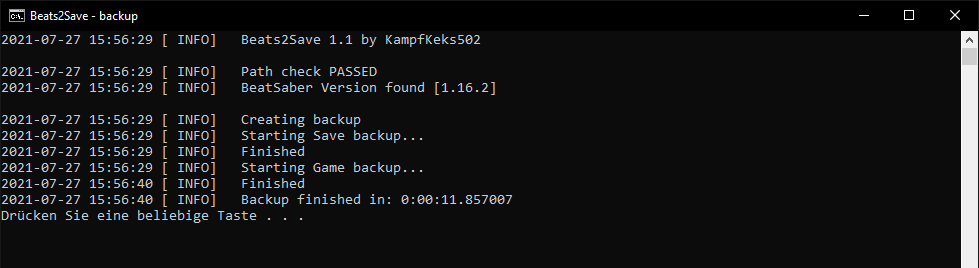
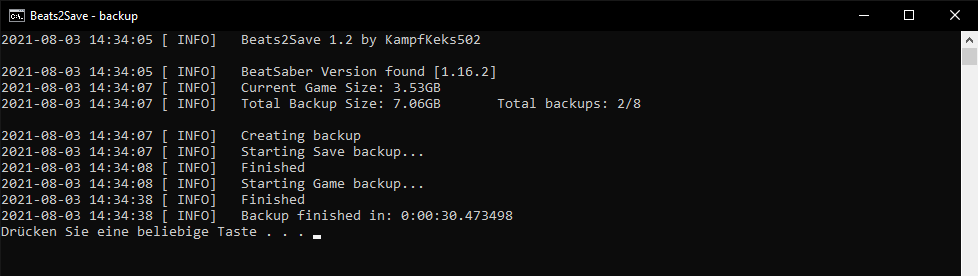
show dir size

diff --git a/Beats2Save.py b/Beats2Save.py
@@ -15,11 +15,11 @@ parser = argparse.ArgumentParser(description="Create or Restore BeatSaber backup
 group_input = parser.add_mutually_exclusive_group()
 group_input.add_argument("-r", "--restore", action="store_true", required=False, help="Restore from backup")
 group_input.add_argument("-c", "--create", action="store_true", required=False, help="Create backup")
-group_input.add_argument("-v", "--version", action="store_true", required=False, help="Show current BeatSaber version")
+group_input.add_argument("-i", "--info", action="store_true", required=False, help="Show BS Version and Game/Backup dir size")
 
-parser.add_argument("-s", "--save_dir", type=str, metavar="", required=False, help="BeatSaber save directory [e.g " + "C:/Users/Kampfkeks/AppData/LocalLow/Hyperbolic Magnetism" + "\"]")
+parser.add_argument("-s", "--save_dir", type=str, metavar="", required=True, help="BeatSaber save directory [e.g " + "C:/Users/Kampfkeks/AppData/LocalLow/Hyperbolic Magnetism" + "\"]")
 parser.add_argument("-g", "--game_dir", type=str, metavar="", required=True, help="BeatSaber/Steam game directory [e.g \"G:/Steam/steamapps/common\"]")
-parser.add_argument("-b", "--backup_dir", type=str, metavar="", required=False, help="Backup directory [e.g \"G:/Backup/Beatsaber\"]")
+parser.add_argument("-b", "--backup_dir", type=str, metavar="", required=True, help="Backup directory [e.g \"G:/Backup/Beatsaber\"]")
 
 parser.add_argument("-n", "--max_backups", type=int, metavar="", required=False, default=0, help="Max number of backups to store [0 = infinite]")
 parser.add_argument("-d", "--debug", action="store_true", required=False, help="enable debug mode")
@@ -68,7 +68,7 @@ def restore(save_dir, game_dir, backup_dir, version):
     i = 1
     logging.info("Please select your desired backup and hit ENTER [e.g. 1, 2, 3, ...]")
     for d in dirs:
-        logging.info(str(i) + ".  " + d)
+        logging.info(str(i) + ".  " + d + "  -  " + str(get_size_format(get_size(backup_dir + "/" + str(d)))))
         i += 1
     valid = False
     while not valid:
@@ -114,6 +114,7 @@ def restore(save_dir, game_dir, backup_dir, version):
 def check_dir(paths):
     if not path.exists(paths):
         logging.info("Path not found [" + paths + "]")
+        print("Please make sure the paths inside the \".bat\" files are correct ")
         sys.exit()
 
 
@@ -159,7 +160,7 @@ def move(src, dst):
 
 
 def clean_backups(backup_dir, max_backups):
-    dirs = os.listdir(backup_dir)
+    dirs = get_dir_list(backup_dir)
     count = backup_count(dirs)
     if count> max_backups:
         print()
@@ -181,18 +182,61 @@ def backup_count(dirs):
     return i
 
 
-if __name__ == "__main__":
-    if not args.restore and not args.create and not args.version:
-        sys.exit()
-    logging.info("Beats2Save 1.1 by KampfKeks502")
+def get_dir_list(path):
+    return os.listdir(path)
 
-    if not args.version:
-        check_dir(args.save_dir)
-        check_dir(args.backup_dir)
-    check_dir(args.game_dir)
+
+def get_size_format(b, factor=1024, suffix="B"):
+    for unit in ["", "K", "M", "G", "T", "P", "E", "Z"]:
+        if b < factor:
+            return f"{b:.2f}{unit}{suffix}"
+        b /= factor
+    return f"{b:.2f}Y{suffix}"
+
+
+def get_size(start_path):
+    total_size = 0
+    try:
+        for dirpath, dirnames, filenames in os.walk(start_path):
+            for f in filenames:
+                fp = os.path.join(dirpath, f)
+                # skip if it is symbolic link
+                if not os.path.islink(fp):
+                    total_size += os.path.getsize(fp)
+    except Exception as err:
+        logging.info("Error trying to get dir size")
+        print(err)
+        sys.exit()
+
+    return total_size
+
+
+def bs_size(game_path, save_path):
+    game_size = get_size(game_path)
+    save_size = get_size(save_path)
+    return game_size + save_size
+
+
+if __name__ == "__main__":
+    if not args.restore and not args.create and not args.info:
+        sys.exit()
+    logging.info("Beats2Save 1.2 by KampfKeks502")
+
     print()
-    logging.info("Path check PASSED")
+    check_dir(args.save_dir)
+    check_dir(args.backup_dir)
+    check_dir(args.game_dir)
     version = bs_version(args.game_dir)
+    total_game_size = bs_size(args.game_dir + "/Beat Saber", args.save_dir + "/Beat Saber")
+    total_backup_size = get_size(args.backup_dir)
+    total_backups_found = backup_count(get_dir_list(args.backup_dir))
+    
+    max_backups = ""
+    if args.max_backups >0:
+        max_backups = "/" + str(args.max_backups)
+    logging.info("Current Game Size: " + get_size_format(total_game_size))
+    logging.info("Total Backup Size: " + get_size_format(total_backup_size) + "       Total backups: " + str(total_backups_found) + max_backups)
+    
     if args.create:
         print()
         logging.info("Creating backup")

diff --git a/README.md b/README.md
@@ -10,7 +10,11 @@ Script tested using Python 3.8 (64-bit) - Win10
 
 **Restore from backup** (_restore.bat):
 
-![Alt text](/../master/screenshots/restore.png?raw=true "_backup.bat")
+![Alt text](/../master/screenshots/restore.png?raw=true "_restore.bat")
+
+**Show Beat Saber informations** (_info.bat):
+
+![Alt text](/../master/screenshots/info.png?raw=true "_info.bat")
 
 # How does it work
 When starting a backup, the script copies the "Saves" directory (usually located in "C:\Users\\%username%\\AppData\LocalLow\Hyperbolic Magnetism\Beat Saber") and the "Game" directory ("...\steamapps\common\Beat Saber") to the desired backup folder. Doing so, it also creates a corresponding folder inside the backup location containing the Beat Saber version and time of the backup. Optionally you can specify how many backups you want to keep. If specified the script will only keep a certain amount of backups at a time.\
@@ -32,7 +36,7 @@ Execute the *.bat file(s).
 
 # Args
 ```test
-usage: Beats2Save.exe [-h] [-r | -c | -v] [-s] -g  [-b] [-n] [-d]
+usage: Beats2Save.py [-h] [-r | -c | -i] -s  -g  -b  [-n] [-d]
 
 Create or Restore BeatSaber backups.
 
@@ -40,7 +44,7 @@ optional arguments:
   -h, --help           show this help message and exit
   -r, --restore        Restore from backup
   -c, --create         Create backup
-  -v, --version        Show current BeatSaber version
+  -i, --info           Show BS Version and Game/Backup dir size
   -s , --save_dir      BeatSaber save directory [e.g C:/Users/Kampfkeks/AppData/LocalLow/Hyperbolic Magnetism"]
   -g , --game_dir      BeatSaber/Steam game directory [e.g "G:/Steam/steamapps/common"]
   -b , --backup_dir    Backup directory [e.g "G:/Backup/Beatsaber"]
